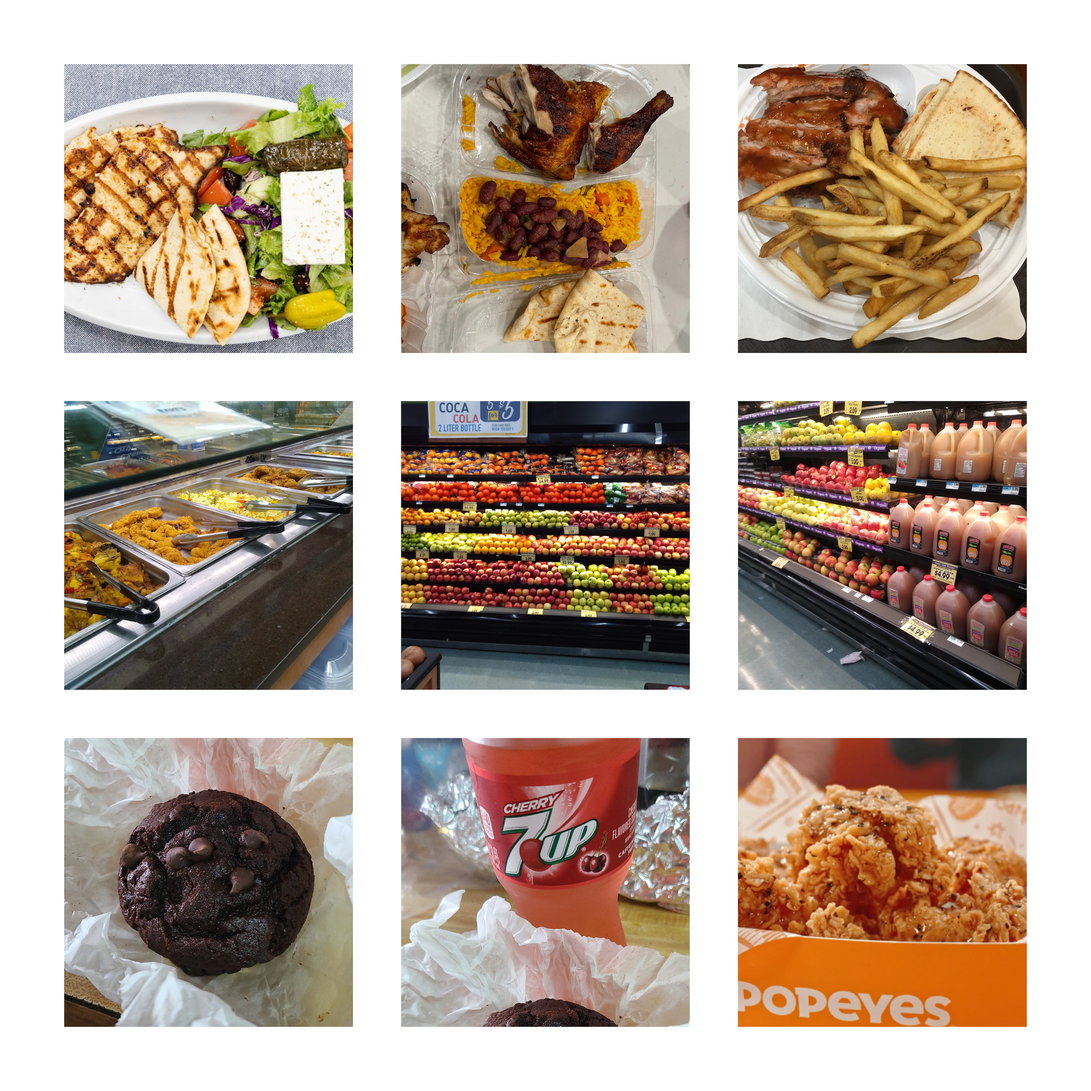
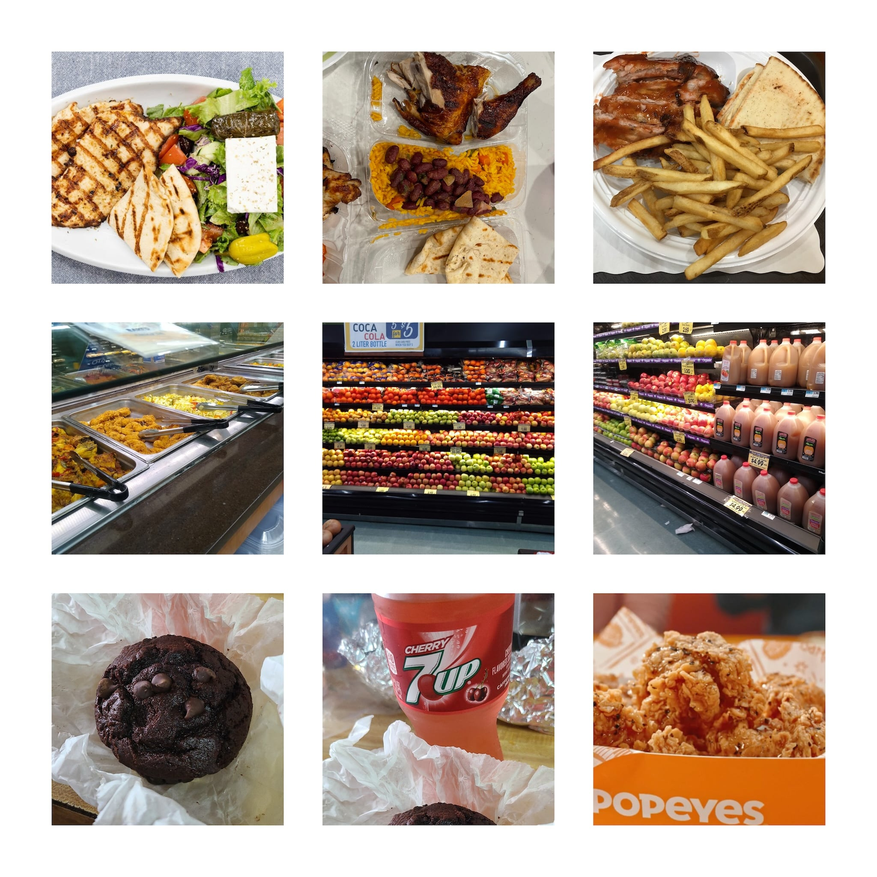
nit: compress images and add markdown headings

Changed region(s): [[0.4062, 0.4688, 0.4688, 0.5], [0.375, 0.4062, 0.4375, 0.4375], [0.5, 0.4688, 0.5312, 0.5]]

diff --git a/projects/2024/biting-the-big-apple.md b/projects/2024/biting-the-big-apple.md
@@ -7,15 +7,12 @@ year: 2024
 image: /img/2024/biting-the-big-apple/cover.jpg
 links:
   - text: Project Website
-    url: https://velvety-florentine-c0e8cc.netlify.app/
+    url: https://biting-the-big-apple.netlify.app/
 ---
 
-<img src="/img/2024/biting-the-big-apple/mapteaser.png" style="width:100%">
-<p style="font-size: 0.6rem; color:gray"> Out of NYC's 198 Neighborhoods, 82 of them, encompassing 225000+ people, make average incomes less than 33,714. This exceeds the populations of cities such as Richmond and Yonkers. However, this is far from </p>
-<br>
+![82 neighborhoods, encompassing 225000+ people, make average incomes less than 33,714. This exceeds the populations of cities such as Richmond and Yonkers.](/img/2024/biting-the-big-apple/mapteaser.png)
 
-
-# <b>ABSTRACT</b>
+# Abstract
 
 The USDA recommends that individuals spend at least 280.95 a month on average to afford economic, healthy meals. Per USDA statistics, 10% of a household’s salary should be invested in order to purchase these meals comfortably, estimating that an income of 33,714 USD is necessary.
 
@@ -23,12 +20,9 @@ In the context of New York City's 196 neighborhoods, 82 of them make an average 
 
 Admittedly, this only scratches the surface– there are far more variables that encompass what makes a neighborhood food insecure. Biting the Big Apple will go through a comprehensive deep dive of New York City’s food insecurity, elaborating what food insecurity is in the context of NYC, where food insecurity is most prevalent, why it is important to address food insecurity, what does food insecurity look like, and how food insecurity can be tackled throughout the city.
 
-<br><br>
+# What is Food Insecurity?
 
-# <b>WHAT IS FOOD INSECURITY</b>
-
-<img src="/img/2024/biting-the-big-apple/neighborhoodcomparison.jpg" style="width:100%">
-<p style="font-size: 0.6rem; color:gray">Within NYC's food insecurity issue, infrastructure plays a big part in bringing affordable access to healthy options to its neighborhoods.</p>
+![Within NYC's food insecurity issue, infrastructure plays a big part in bringing affordable access to healthy options to its neighborhoods.](/img/2024/biting-the-big-apple/neighborhoodcomparison.jpg)
 
 Food insecurity is the inability to comfortably access affordable, healthy dietary options. In the context of New York City, it takes two forms:
 
@@ -42,60 +36,46 @@ On the contrary, there's also:
 
 In incumbent investigations by the USDA, food insecurity is mostly emphasized by the lack of physical proximity (10 mile radius) to a supermarket. However, since NYC is so dense, the term "food swamp" must be used to discuss the lack of economical access to healthier options. In order to truly discuss which neighborhoods are riddled with food insecurity, various investigations and correlations of data such as income, supermarket and bodega counts, median rent and vehicle counts are all correlated to paint NYC's food insecurity landscape.
 
-<img src="/img/2024/biting-the-big-apple/USDATable.jpeg" style="width:100%">
-<p style="font-size: 0.6rem; color:gray">USDA Table showing recommended costs for healthy, nutritious meals per person.</p>
+![USDA Table showing recommended costs for healthy, nutritious meals per person.](/img/2024/biting-the-big-apple/USDATable.jpeg)
 
-<br><br>
+# Where is the Food Insecurity?
 
-# <b>WHERE IS THE FOOD INSECURITY</b>
-
-<img src="/img/2024/biting-the-big-apple/layoutfoodinsecurity.jpg" style="width:100%">
-<p style="font-size: 0.6rem; color:gray">Various types of food vendors. Depending on the food infrastructure, the concentrations of these sources will vary throughout each neighborhood.</p>
+![Various types of food vendors. Depending on the food infrastructure, the concentrations of these sources will vary throughout each neighborhood.](/img/2024/biting-the-big-apple/layoutfoodinsecurity.jpg)
 
 In order to get a comprehensive understanding where food insecurity is most prevalent, it is essential to take in data from various sources. In these investigations, various infrastructural datasets (i.e. supermarket counts, vehicle prevalence) are correlated with various economic parameters (i.e. Average median income, food stamp prevalence) to identify conditions of what makes a place food insecure.
 
 Based on these results, three different neighborhoods will be chosen: one food oasis, swamp and desert. These areas will be investigated further in a qualitative manner, completing the definition of food insecurity that the numbers in these quantitative presentations cannot articulate.
 
+## Investigation I: Deeper Financial Burdens
+
 <img src="/img/2024/biting-the-big-apple/graph1.png" style="width:100%">
-<b>Investigation I: Deeper Financial Burdens</b>
-<br><br>
 
 Though the 33,714 USD cutoff for affording healthy meals is a good indicator for understanding neighborhoods with financial difficulties, it could also be justified with another financial parameter-- rent. According to many major financial institutions, such as SoFi and Chase, it is recommended that families should invest less than 30% of their income towards rent/mortgage in order to be financially sound.
 
 In this particular graph, there is a comparison between the %of income that goes towards food, and the %of income that goes towards rent, with the dashed red lines representing the recommended financial cutoffs. Neighborhoodsthat exceed both of these cutoffs are prime candidates that are more vulnerable to food insecurity. In this case, these neighborhoods get a distinction gives them more priority when it comes to classifying which neighborhoods suffer from food insecurity the most.
 
-<br><br>
+## Investigation II: Vehicle Prevalence
+
 <img src="/img/2024/biting-the-big-apple/graph2.png" style="width:100%">
-<b>Investigation II: Vehicle Prevalence</b>
-<br><br>
 
 In certain areas, especially in the outskirts of New York City, neighborhoods tend to become more sparsely populated, with infrastructure being more spread out. In these investigations, these can mistakenly read as places that may have more difficulty with accessing adequate nutritious infrastructure.
 
 The graph is divided into three groups: one where there are lower amounts of supermarkets but compensated with higher vehicle ownership (blue), one where there are less vehicles but enough supermarkets accessible to the public (green), and most importantly, one where there are inadequate amounts of vehicle ownership and supermarket infrastructure. This ultimately filters out any false positives regarding any neighborhoods that may be seen as food insecure due to their sparsely populated food infrastructure.
 
-<br><br>
+## Investigation III: Food Stamp Prevalence
 
 <img src="/img/2024/biting-the-big-apple/graph3.png" style="width:100%">
-<b>Investigation III: Food Stamp Prevalence</b>
-<br><br>
 
 Food stamps are typically given to individuals that need assistance with obtaining food. In this study, food stamp prevalence (Source: US Census 2020 ACS5) is correlated with supermarket counts, and income. This scatterplot also divides into three groups, those with good access to supermarkets and are able to afford it (green, i.e. Sunset Park), those with decent access to supermarkets but have meager means of purchasing goods (yellow, i.e. Central Harlem), and those who have neither the means of supermarket access and/or have higher prevalence of food stamp assistance (red, i.e. Ocean Hill).
 
-<br><br>
+## Where is it?
 
-
-<img src="/img/2024/biting-the-big-apple/stupid-horse.gif" style="width:100%">
-<p style="font-size: 0.6rem; color:gray">🟢: Food Oasis, 🟡: Food Swamp, 🔴: Food Desert</p>
-<br>
-
-<b>Where is it?</b>
-<br><br>
+![🟢: Food Oasis, 🟡: Food Swamp, 🔴: Food Desert](/img/2024/biting-the-big-apple/stupid-horse.gif)
 
 Based on these results, neighborhoods are either classified as a food desert (pink), food swamp (yellow), or food oasis (greens). From these results, one oasis, swamp and desert will be chosen and investigated. 
-<br><br>
 
+# What Does Food Insecurity Look Like?
 
-# <b>WHAT DOES FOOD INSECURITY LOOK LIKE?</b>
 Ideally, neighborhoods should have infrastructure that allows for adequeate access to healthy food options. However, in the case of
 places with food insecurity, there are holes in the infrastructure that give food insecure places their classification.
 
@@ -103,72 +83,52 @@ Within this investigation, a food oasis is used as a control group and is compar
 
 Using google street imagery, a rough panorama is stitched together. All these captures are taken every 10 meters, and all represent the same distance.
 
-<br>
-
 <b>Food Oasis:</b> Sunset Park 8th Avenue, 54th-57th Street.
-<br><br>
-<img src="/img/2024/biting-the-big-apple/panoramasunset-min.jpg" alt="SunsetParkPanorama" class="panorama-image">
-<p style="color:gray; font-size:0.6rem">
-Total Supermarkets: 22, Total Restaurants: 7, Total Fast Food: 5</p>
 
-<p style="font-size:0.6rem; line-height:0.75rem">
+![Total Supermarkets: 22, Total Restaurants: 7, Total Fast Food: 5](/img/2024/biting-the-big-apple/panoramasunset-min.jpg)
+
 There is an abundant and dense network of grocery vendors, along with a fair share of dining options. Though this is a fairly low income neighborhood, the availability of resources and the low dependency on food stamps indicates a neighborhood with sufficient access to healthy options.
-</p>
-<br><br>
 
 <b>Food Desert:</b> Starrett City. Louisiana Avenue and Twin Pines Drive
-<br><br>
-<img src="/img/2024/biting-the-big-apple/panoramastarrett-min.jpg" alt="SunsetParkPanorama" class="panorama-image">
-<p style="color:gray; font-size:0.6rem">
-Total Supermarkets: 2, Total Restaurants: 1, Total Fast Food: 8, Total Health: 2</p>
 
-<p style="font-size:0.6rem; line-height:0.75rem">
-There is an abundant and dense network of grocery vendors, along with a fair share of dining options. Though this is a fairly low income neighborhood, the availability of resources and the low dependency on food stamps indicates a neighborhood with sufficient access to healthy options.
-</p>
-<br><br>
+![Total Supermarkets: 2, Total Restaurants: 1, Total Fast Food: 8, Total Health: 2](/img/2024/biting-the-big-apple/panoramastarrett-min.jpg)
+
+Starrett City finds itself to only have two total supermarkets located in strip malls, surrounded by various fast-food options. The high prevalence of fast-food establishments suggests the neighborhood could populate with more infrastructure that is not just concentrated within the two strip malls in the center of the neighborhood.
 
 <b>Food Swamp:</b> Central Harlem-North. 145th Street, Bradhurst Avenue to Adam C. Powell Boulevard
-<br><br>
-<img src="/img/2024/biting-the-big-apple/panoramacnh-min.jpg" alt="SunsetParkPanorama" class="panorama-image">
-<p style="color:gray; font-size:0.6rem">
-Total Supermarkets: 2, Total Restaurants: 1, Total Fast Food: 6, Total Health: 5
-</p>
 
-<p style="font-size:0.6rem; line-height:0.75rem">
+![Total Supermarkets: 2, Total Restaurants: 1, Total Fast Food: 6, Total Health: 5](/img/2024/biting-the-big-apple/panoramacnh-min.jpg)
+
 Compared to the Sunset Park example, CH-N has a lower density of food infrastructure. However, fast food & convenience options are more plentiful compared to the supermarkets available. However, it is interesting to note the amount of health infrastructure around. Is this due to the higher prevalence of health problems? This implies that though there are options available for healthy dining, the combination of the high food stamp prevalence in this neighborhood hints at the preference of more affordable options
-</p>
-<br><br>
 
-# <b>WHAT'S ON THE MENU?</b>
+# What's on the Menu?
+
+<b>FOOD DESERT:</b> Starrett City
 
 <img src="/img/2024/biting-the-big-apple/grids2.jpg" style="width:60%; margin-left: auto; margin-right: auto;">
-<b>FOOD DESERT:</b> Starrett City
-<br><br>
 
 When it comes to the food infrastructure of Starrett City, there are only two supermarkets in the entire neighborhood. Outside of these supermarkets, the food options mostly involve fast food, dominated by chain establishments (i.e. Dunkin, Sarku Japan, etc.) that take up Starrett City's retail spaces. With 52% of the neighborhood having food stamps, it is also evident that healthier options are more difficult to obtain.
 
 Starrett City's infrastructure is mostly apartment complexes, with two strip malls. The strip malls also have vast amounts of parking space too, which is ironic considering the general lack of automobile vehicle usage in comparison to other neighborhoods.
-<br><br>
+
+<b>FOOD SWAMP:</b> Central Harlem-North
 
 <img src="/img/2024/biting-the-big-apple/grids.jpg" style="width:60%; margin-left: auto; margin-right: auto;">
-<b>FOOD SWAMP:</b> Central Harlem-North
-<br><br>
 
 CH-N differentiates itself from the food desert example by having denser infrastructure-- especially with a greater amount of supermarkets overall, unlike Starrett City which only has two. However, the presence of fast-food options is similar to its food desert counterpart is prevalent-- bodegas and fast food choices still outnumber supermarket infrastructure. With around 45% of their populace also using food stamps, it is clear that financial assistance is needed to access healthier options.
 
 CH-N has much more variety when it comes to infrastructure, unlike Starrett City which is mainly composed of High Rise buildings, strip malls and asphalt lots. The density of their infrastructure also makes the lack of vehicles not as much of a problem, as this offset by plentiful access to the MTA Subway and Bus lines.
-<br><br>
+
+<b>FOOD OASIS:</b> Sunset Park
 
 <img src="/img/2024/biting-the-big-apple/grids3.jpg" style="width:60%; margin-left: auto; margin-right: auto;">
-<b>FOOD OASIS:</b> Sunset Park
-<br><br>
 
 Sunset Park differentiates itself from its food insecure counterparts by offering a dense supermarket network, with almost every block having a food vendor. Unlike supermarkets in Starrett City or Central Harlem- North, Sunset Park proudly displays their produce outside of their premises, and even allot smaller venues to have fresh produce, which would've otherwise read as fast food restaurants or cornerstores in the food-insecure neighborhoods.
 
 With only 28% of residents using food stamps, and having median incomes similar to Central Harlem-North, along with similar building typologies, Sunset Park sets a good example of how lower-income neighborhoods can still have ample access to healthier options at an affordable price. Ultimately, Sunset Park minimizes the presence of fast food restaurants, in favor of local vendors.
 <br><br>
 
-# <b>CONCLUSION</b>
+# Conclusion
 
 <img src="/img/2024/biting-the-big-apple/tooldemo.gif" style="width:80%">
 
